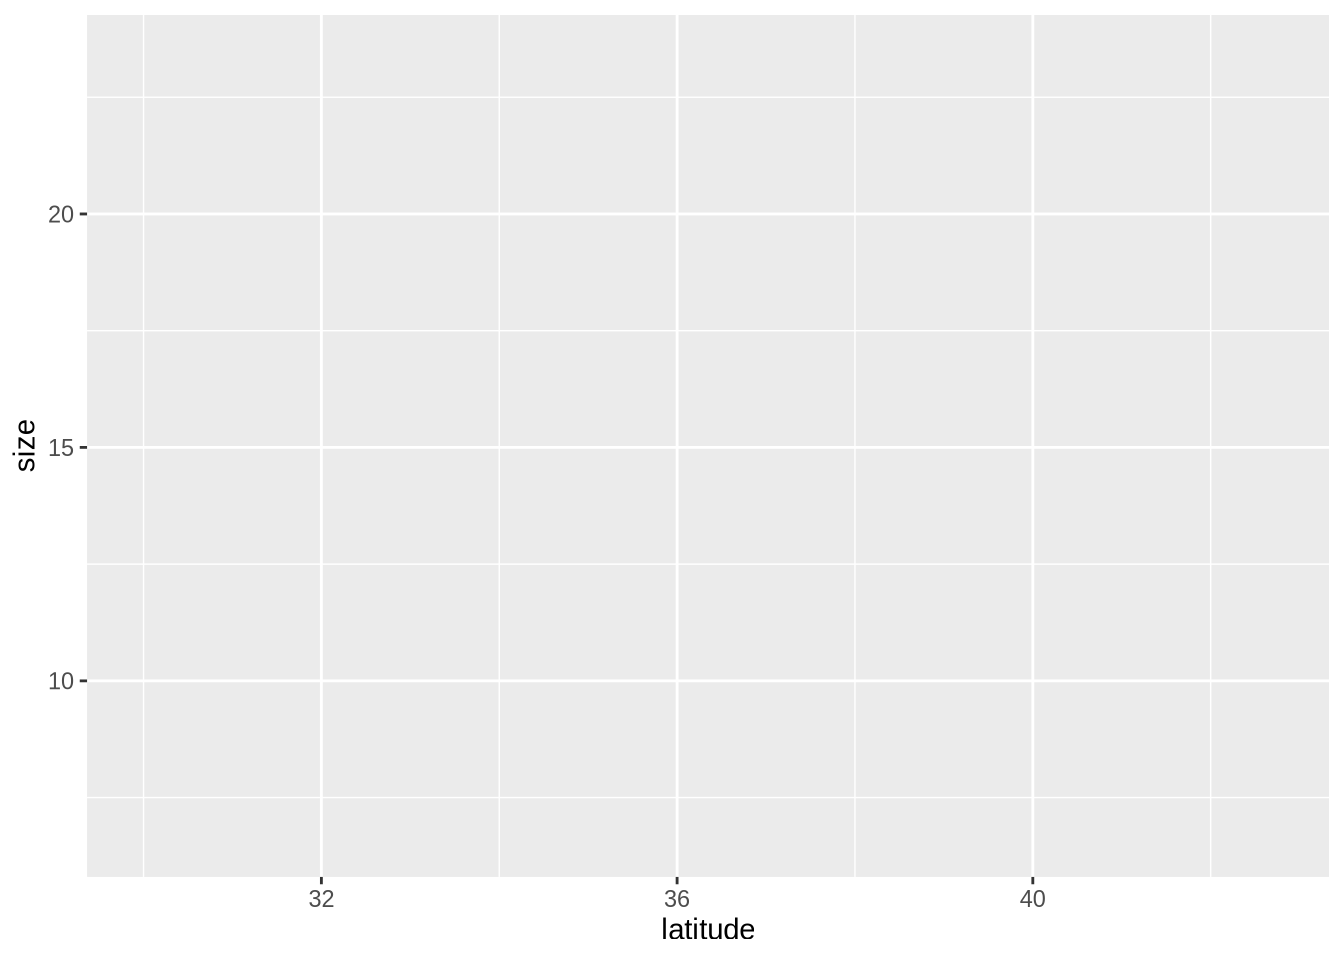
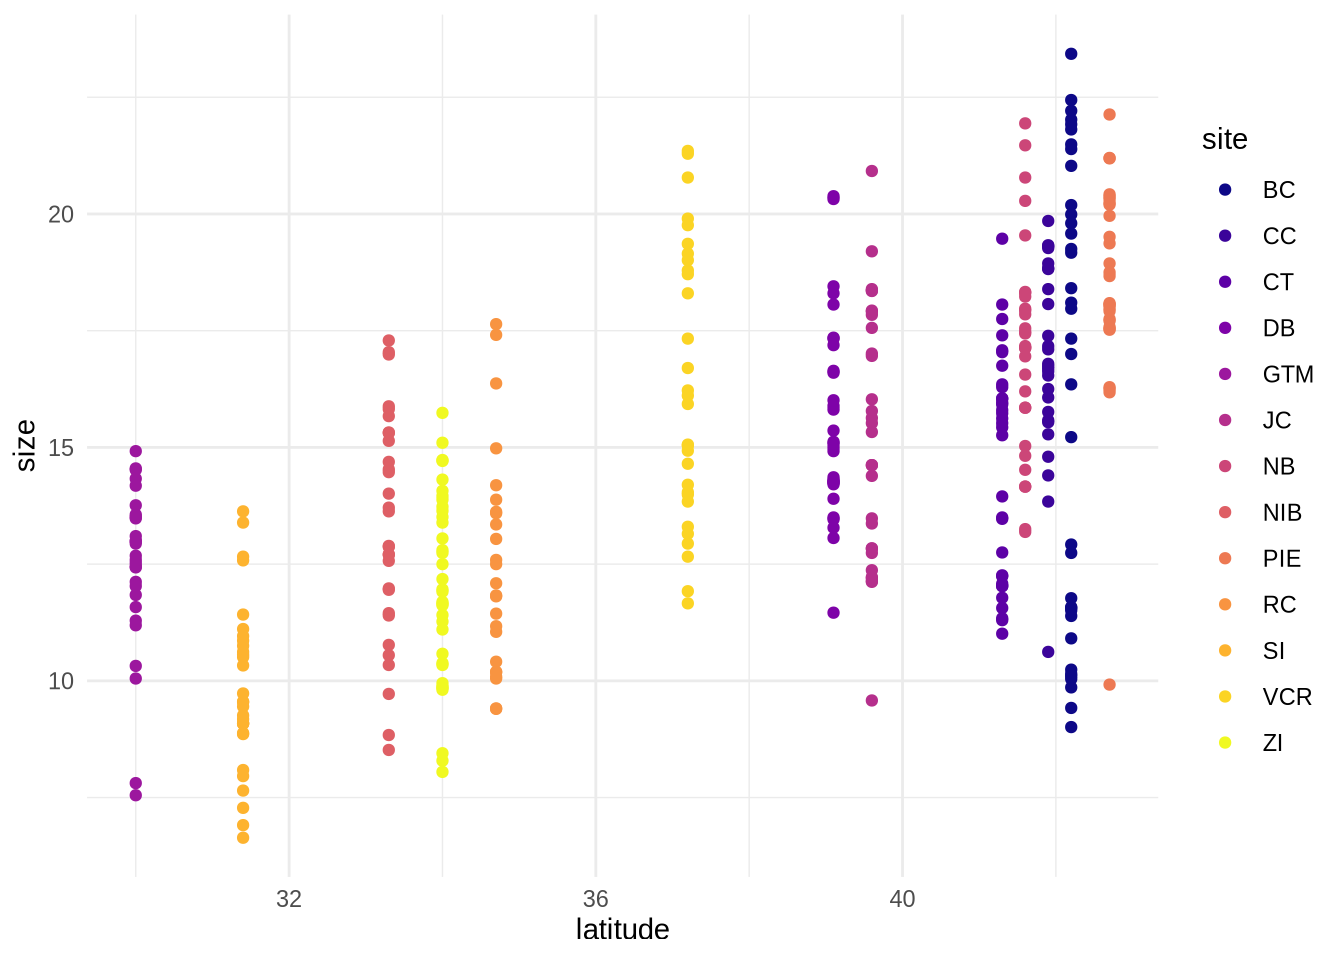
adding plot

diff --git a/workshop git.html b/workshop git.html
@@ -117,7 +117,8 @@ pre > code.sourceCode > span > a:first-child::before { text-decoration: underlin
 <div class="cell">
 <div class="sourceCode cell-code" id="cb1"><pre class="sourceCode r code-with-copy"><code class="sourceCode r"><span id="cb1-1"><a href="#cb1-1" aria-hidden="true" tabindex="-1"></a><span class="fu">library</span>(tidyverse) <span class="co"># gerneral use package </span></span>
 <span id="cb1-2"><a href="#cb1-2" aria-hidden="true" tabindex="-1"></a><span class="fu">library</span>(lterdatasampler) <span class="co"># pakage of data frame</span></span>
-<span id="cb1-3"><a href="#cb1-3" aria-hidden="true" tabindex="-1"></a><span class="fu">data</span>(pie_crab) <span class="co"># importing pie)crab data </span></span></code><button title="Copy to Clipboard" class="code-copy-button"><i class="bi"></i></button></pre></div>
+<span id="cb1-3"><a href="#cb1-3" aria-hidden="true" tabindex="-1"></a><span class="fu">library</span>(viridis)</span>
+<span id="cb1-4"><a href="#cb1-4" aria-hidden="true" tabindex="-1"></a><span class="fu">data</span>(pie_crab) <span class="co"># importing pie)crab data </span></span></code><button title="Copy to Clipboard" class="code-copy-button"><i class="bi"></i></button></pre></div>
 </div>
 </section>
 <section id="new-section-exploratory-visualization" class="level1">
@@ -125,7 +126,12 @@ pre > code.sourceCode > span > a:first-child::before { text-decoration: underlin
 <div class="cell">
 <div class="sourceCode cell-code" id="cb2"><pre class="sourceCode r code-with-copy"><code class="sourceCode r"><span id="cb2-1"><a href="#cb2-1" aria-hidden="true" tabindex="-1"></a><span class="fu">ggplot</span>(<span class="at">data =</span> pie_crab, <span class="co"># data is pie_crab</span></span>
 <span id="cb2-2"><a href="#cb2-2" aria-hidden="true" tabindex="-1"></a>       <span class="fu">aes</span>(<span class="at">x =</span> latitude, <span class="co"># x is latitidue</span></span>
-<span id="cb2-3"><a href="#cb2-3" aria-hidden="true" tabindex="-1"></a>           <span class="at">y =</span> size )) <span class="co"># y is size </span></span></code><button title="Copy to Clipboard" class="code-copy-button"><i class="bi"></i></button></pre></div>
+<span id="cb2-3"><a href="#cb2-3" aria-hidden="true" tabindex="-1"></a>           <span class="at">y =</span> size, <span class="co"># y is size </span></span>
+<span id="cb2-4"><a href="#cb2-4" aria-hidden="true" tabindex="-1"></a>           <span class="at">color =</span> site)) <span class="sc">+</span> </span>
+<span id="cb2-5"><a href="#cb2-5" aria-hidden="true" tabindex="-1"></a>  <span class="fu">geom_point</span>()<span class="sc">+</span> <span class="co"># creating scatter plot</span></span>
+<span id="cb2-6"><a href="#cb2-6" aria-hidden="true" tabindex="-1"></a>  <span class="fu">theme_minimal</span>()<span class="sc">+</span> <span class="co"># changin theme</span></span>
+<span id="cb2-7"><a href="#cb2-7" aria-hidden="true" tabindex="-1"></a>  <span class="fu">scale_color_viridis</span>(<span class="at">discrete =</span> <span class="cn">TRUE</span>, <span class="co"># selecting spefic colors </span></span>
+<span id="cb2-8"><a href="#cb2-8" aria-hidden="true" tabindex="-1"></a>                      <span class="at">option =</span> <span class="st">"plasma"</span>)</span></code><button title="Copy to Clipboard" class="code-copy-button"><i class="bi"></i></button></pre></div>
 <div class="cell-output-display">
 <div>
 <figure class="figure">
